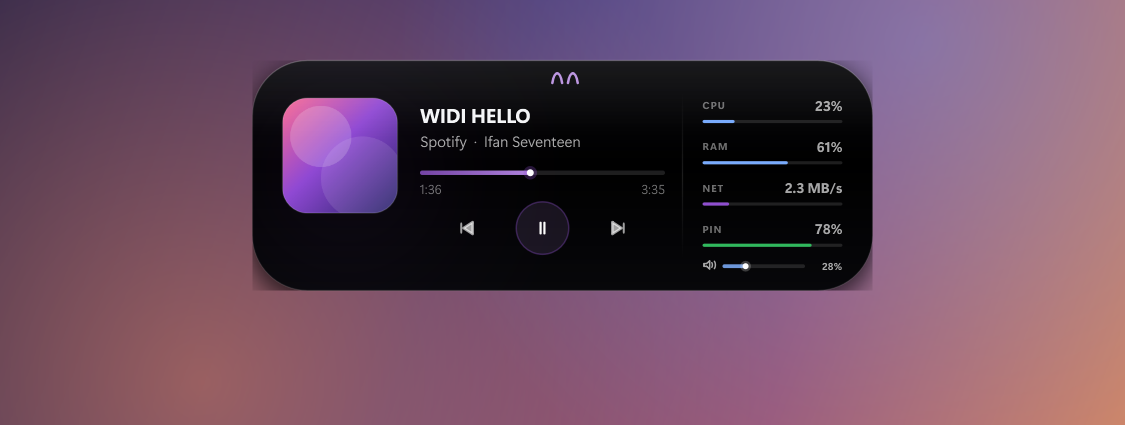
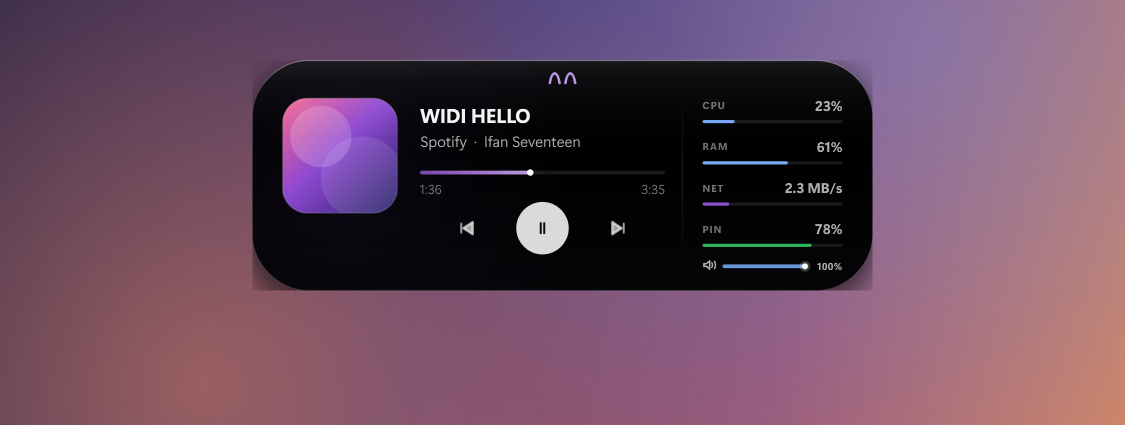
Nâng cấp giao diện kiểu MacBook: góc squircle, nền đen tuyền, viền sáng 2 tầng, camera lens, nút play trắng kiểu Apple Music, bóng mềm hơn

diff --git a/island/window.py b/island/window.py
@@ -53,7 +53,7 @@ from .audio import Volume
 from .debug import dbg
 from .eyes import Eyes
 from .monitor import fmt_rate
-from .theme import C, PAD, alpha, clamp, f, fm, lerp, mix, rgba
+from .theme import C, PAD, alpha, clamp, f, fm, lerp, mix, pill_path, rgba
 
 IDLE = "idle"
 COMPACT = "compact"
@@ -704,39 +704,44 @@ class Island(QWidget):
             QRectF(PAD, PAD, sw, sh),
         )
 
-        path = QPainterPath()
-        path.addRoundedRect(pill, self._radius, self._radius)
+        path = pill_path(pill, self._radius)
+        big = self._state in (EXPANDED, NOTIF, SHELF)
+
+        # Nền: đen tuyền kiểu OLED, chỉ hơi sáng sát mép trên để tạo khối.
         grad = QLinearGradient(0, pill.top(), 0, pill.bottom())
         grad.setColorAt(0.0, C.bg_top)
-        grad.setColorAt(0.45, C.bg_mid)
+        grad.setColorAt(0.38, C.bg_mid)
         grad.setColorAt(1.0, C.bg_bottom)
         cp.fillPath(path, QBrush(grad))
 
         cp.save()
         cp.setClipPath(path)
-        big = self._state in (EXPANDED, NOTIF, SHELF)
         if self._media.get("has"):
             glow = QRadialGradient(
                 QPointF(pill.left() + (76 if big else 42), pill.center().y()),
                 180 if big else 110,
             )
-            glow.setColorAt(0.0, alpha(self._accent, 19 if big else 13))
+            glow.setColorAt(0.0, alpha(self._accent, 20 if big else 13))
             glow.setColorAt(0.55, alpha(self._accent, 5 if big else 3))
             glow.setColorAt(1.0, alpha(self._accent, 0))
             cp.fillRect(pill, glow)
 
-        hl_h = min(58.0, pill.height() * 0.62)
+        # Sheen mảnh sát đỉnh: ánh sáng hắt từ màn hình, rất nhẹ để không bợt.
+        hl_h = min(46.0, pill.height() * 0.52)
         hl = QLinearGradient(0, pill.top(), 0, pill.top() + hl_h)
-        hl.setColorAt(0.0, QColor(255, 255, 255, 18))
+        hl.setColorAt(0.0, QColor(255, 255, 255, 15))
+        hl.setColorAt(0.38, QColor(255, 255, 255, 4))
         hl.setColorAt(1.0, QColor(255, 255, 255, 0))
         cp.fillRect(QRectF(pill.left(), pill.top(), pill.width(), hl_h), hl)
         cp.restore()
 
+        # Viền 2 lớp: vệt sáng trên đậm rồi tắt nhanh + hairline phía trong,
+        # cho cảm giác cạnh máy được vát chứ không phải hình dán phẳng.
         rim = QLinearGradient(0, pill.top(), 0, pill.bottom())
-        rim.setColorAt(0.0, rgba(255, 255, 255, 62))
-        rim.setColorAt(0.30, rgba(255, 255, 255, 18))
-        rim.setColorAt(0.70, rgba(255, 255, 255, 13))
-        rim.setColorAt(1.0, rgba(255, 255, 255, 30))
+        rim.setColorAt(0.0, rgba(255, 255, 255, 86))
+        rim.setColorAt(0.14, rgba(255, 255, 255, 26))
+        rim.setColorAt(0.62, rgba(255, 255, 255, 11))
+        rim.setColorAt(1.0, rgba(255, 255, 255, 26))
         cp.setBrush(Qt.BrushStyle.NoBrush)
         cp.setPen(QPen(QBrush(rim), 1.0))
         cp.drawPath(path)
@@ -756,8 +761,7 @@ class Island(QWidget):
         pill = self._pill_rect()
         p.drawPixmap(QPointF(0.0, 0.0), self._chrome())
 
-        path = QPainterPath()
-        path.addRoundedRect(pill, self._radius, self._radius)
+        path = pill_path(pill, self._radius)
 
         p.save()
         p.setClipPath(path)
@@ -806,17 +810,18 @@ class Island(QWidget):
         sp = QPainter(src)
         sp.setRenderHint(QPainter.RenderHint.Antialiasing)
         sp.setPen(Qt.PenStyle.NoPen)
-        sp.setBrush(QColor(0, 0, 0, 120))
-        sp.drawRoundedRect(QRectF(PAD - 2, PAD + 8, w + 4, h + 4), r + 2, r + 2)
-        sp.setBrush(QColor(0, 0, 0, 140))
-        sp.drawRoundedRect(QRectF(PAD, PAD + 3, w, h), r, r)
+        # Hai lớp: quầng rộng rất nhẹ + lõi sát viền, tổng thể mềm như macOS.
+        sp.setBrush(QColor(0, 0, 0, 92))
+        sp.drawRoundedRect(QRectF(PAD - 3, PAD + 10, w + 6, h + 6), r + 3, r + 3)
+        sp.setBrush(QColor(0, 0, 0, 128))
+        sp.drawRoundedRect(QRectF(PAD, PAD + 4, w, h), r, r)
         sp.end()
 
         scene = QGraphicsScene()
         scene.setSceneRect(0, 0, pw, ph)
         item = QGraphicsPixmapItem(src)
         blur = QGraphicsBlurEffect()
-        blur.setBlurRadius(17)
+        blur.setBlurRadius(19)
         item.setGraphicsEffect(blur)
         scene.addItem(item)
 
@@ -851,6 +856,31 @@ class Island(QWidget):
     def _eye_color(self) -> QColor:
         return C.eye(self._accent)
 
+    def _paint_camera(self, p: QPainter, cx: float, cy: float, scale: float = 1.0):
+        """Ống kính camera nhỏ trong notch — chi tiết đặc trưng của MacBook."""
+        rr = 4.6 * scale
+        p.setPen(Qt.PenStyle.NoPen)
+        p.setBrush(rgba(255, 255, 255, 16))
+        p.drawEllipse(QPointF(cx, cy), rr + 0.7, rr + 0.7)
+
+        lens = QRadialGradient(QPointF(cx - rr * 0.34, cy - rr * 0.36), rr * 1.75)
+        lens.setColorAt(0.0, QColor(32, 43, 58))
+        lens.setColorAt(0.52, QColor(11, 15, 21))
+        lens.setColorAt(1.0, QColor(3, 5, 8))
+        p.setBrush(QBrush(lens))
+        p.drawEllipse(QPointF(cx, cy), rr, rr)
+
+        # lớp phủ thuỷ tinh hơi ánh màu nhấn
+        p.setBrush(Qt.BrushStyle.NoBrush)
+        p.setPen(QPen(alpha(self._accent, 48), 0.9))
+        p.drawEllipse(QPointF(cx, cy), rr - 0.4, rr - 0.4)
+
+        p.setPen(Qt.PenStyle.NoPen)
+        p.setBrush(rgba(255, 255, 255, 124))
+        p.drawEllipse(QPointF(cx - rr * 0.33, cy - rr * 0.36), 1.05 * scale, 1.05 * scale)
+        p.setBrush(rgba(255, 255, 255, 38))
+        p.drawEllipse(QPointF(cx + rr * 0.30, cy + rr * 0.34), 0.72 * scale, 0.72 * scale)
+
     def _paint_idle(self, p: QPainter, r: QRectF):
         clock = time.strftime("%H:%M")
         date = _vn_short()
@@ -875,6 +905,9 @@ class Island(QWidget):
         p.setFont(date_font)
         p.setPen(C.mute)
         p.drawText(QRectF(bx, y0 + 19, block_w + 2, 14), LC, date)
+
+        # ống kính ở nửa phải, đúng vị trí camera trên notch MacBook
+        self._paint_camera(p, r.right() - 28.0, r.center().y())
 
     def _paint_compact(self, p: QPainter, r: QRectF):
         art = QRectF(r.left() + 7, r.top() + 7, 28, 28)
@@ -1052,23 +1085,22 @@ class Island(QWidget):
         frac = clamp(pos / dur, 0.0, 1.0) if dur > 0 else 0.0
 
         track_y = top + 88
-        th = 3.5
+        th = 3.0
         p.setPen(Qt.PenStyle.NoPen)
         p.setBrush(C.track)
         p.drawRoundedRect(QRectF(x, track_y, w, th), th / 2, th / 2)
         if frac > 0.004:
             fill_w = max(th, w * frac)
             fg = QLinearGradient(x, 0, x + fill_w, 0)
-            fg.setColorAt(0.0, alpha(self._accent, 190))
-            fg.setColorAt(1.0, mix(self._accent, QColor(255, 255, 255), 0.30))
+            fg.setColorAt(0.0, alpha(self._accent, 205))
+            fg.setColorAt(1.0, mix(self._accent, QColor(255, 255, 255), 0.45))
             p.setBrush(QBrush(fg))
             p.drawRoundedRect(QRectF(x, track_y, fill_w, th), th / 2, th / 2)
 
-        knob_x = x + w * frac
-        p.setBrush(alpha(self._accent, 70))
-        p.drawEllipse(QPointF(knob_x, track_y + th / 2), 5.4, 5.4)
-        p.setBrush(QColor(255, 255, 255))
-        p.drawEllipse(QPointF(knob_x, track_y + th / 2), 2.8, 2.8)
+            # chấm nhỏ ở đầu phát; ẩn khi chưa phát để không có chấm lạc ở mép trái
+            knob_x = x + w * frac
+            p.setBrush(QColor(255, 255, 255))
+            p.drawEllipse(QPointF(knob_x, track_y + th / 2), 2.6, 2.6)
 
         p.setFont(f(9.5, QFont.Weight.Medium, 0.2))
         p.setPen(C.mute)
@@ -1086,18 +1118,17 @@ class Island(QWidget):
         playing = bool(self._media.get("playing"))
         hot_play = self._hover_ctrl == "play"
         p.setPen(Qt.PenStyle.NoPen)
-        p.setBrush(alpha(QColor(255, 255, 255), 26 if hot_play else 13))
-        p.drawEllipse(QPointF(cx, cy), 21, 21)
-        p.setBrush(alpha(self._accent, 34 if hot_play else 18))
-        p.drawEllipse(QPointF(cx, cy), 21, 21)
-        p.setBrush(Qt.BrushStyle.NoBrush)
-        p.setPen(QPen(alpha(self._accent, 150 if hot_play else 90), 1.2))
+        if hot_play:
+            p.setBrush(rgba(255, 255, 255, 34))
+            p.drawEllipse(QPointF(cx, cy), 25, 25)
+        # nút trắng đặc + glyph đen, đúng kiểu Apple Music
+        p.setBrush(QColor(255, 255, 255, 236 if hot_play else 222))
         p.drawEllipse(QPointF(cx, cy), 21, 21)
 
         if playing:
-            icons.pause(p, QRectF(cx - 5.5, cy - 7.5, 11, 15), QColor(255, 255, 255))
+            icons.pause(p, QRectF(cx - 5.0, cy - 7.0, 10.0, 14.0), QColor(9, 9, 12))
         else:
-            icons.play(p, QRectF(cx - 4.5, cy - 8, 13, 16), QColor(255, 255, 255))
+            icons.play(p, QRectF(cx - 4.0, cy - 7.6, 12.0, 15.0), QColor(9, 9, 12))
 
         for name, ix, icon_fn in (
             ("prev", cx - 78 + 17, icons.prev),

diff --git a/island/theme.py b/island/theme.py
@@ -2,7 +2,14 @@
 
 from __future__ import annotations
 
-from PySide6.QtGui import QColor, QFont, QFontDatabase, QFontMetricsF
+from PySide6.QtCore import QRectF
+from PySide6.QtGui import (
+    QColor,
+    QFont,
+    QFontDatabase,
+    QFontMetricsF,
+    QPainterPath,
+)
 
 # Vùng đệm quanh viên đảo để vẽ bóng đổ
 PAD = 22
@@ -33,19 +40,19 @@ def mix(a: QColor, b: QColor, t: float) -> QColor:
 class C:
     """Bảng màu. Nền đen tuyền kiểu OLED, viền sáng mảnh, chữ trắng ngà."""
 
-    bg_top = QColor(9, 9, 12)
+    bg_top = QColor(10, 10, 14)
     bg_mid = QColor(0, 0, 0)
-    bg_bottom = QColor(7, 7, 10)
+    bg_bottom = QColor(5, 5, 8)
 
     stroke = rgba(255, 255, 255, 30)
     stroke_soft = rgba(255, 255, 255, 14)
 
-    text = QColor(247, 248, 250)
-    dim = rgba(255, 255, 255, 168)
-    mute = rgba(255, 255, 255, 110)
-    faint = rgba(255, 255, 255, 52)
-    track = rgba(255, 255, 255, 30)
-    hair = rgba(255, 255, 255, 20)
+    text = QColor(248, 249, 251)
+    dim = rgba(255, 255, 255, 176)
+    mute = rgba(255, 255, 255, 116)
+    faint = rgba(255, 255, 255, 54)
+    track = rgba(255, 255, 255, 26)
+    hair = rgba(255, 255, 255, 18)
     chip = rgba(255, 255, 255, 12)
 
     accent = QColor(122, 173, 255)
@@ -110,3 +117,33 @@ def clamp(v: float, lo: float, hi: float) -> float:
 
 def lerp(a: float, b: float, t: float) -> float:
     return a + (b - a) * t
+
+
+def pill_path(rect: QRectF, radius: float, k: float = 0.52) -> QPainterPath:
+    """Đường bao góc cong liên tục (squircle) thay cho addRoundedRect.
+
+    Dùng cubic bezier với hệ số k thay vì cung tròn (k = 0.5523). Góc vì thế
+    "đầy" và mềm hơn — đúng cảm giác notch/Dynamic Island trên macOS, nhất là
+    khi bán kính bằng nửa chiều cao (dạng viên thuốc).
+    """
+    r = max(0.0, min(radius, min(rect.width(), rect.height()) / 2.0))
+    path = QPainterPath()
+    if r <= 0.05:
+        path.addRect(rect)
+        return path
+
+    x0, y0 = rect.left(), rect.top()
+    x1, y1 = rect.right(), rect.bottom()
+    c = r * clamp(k, 0.30, 0.56)
+
+    path.moveTo(x0 + r, y0)
+    path.lineTo(x1 - r, y0)
+    path.cubicTo(x1 - r + c, y0, x1, y0 + r - c, x1, y0 + r)
+    path.lineTo(x1, y1 - r)
+    path.cubicTo(x1, y1 - r + c, x1 - r + c, y1, x1 - r, y1)
+    path.lineTo(x0 + r, y1)
+    path.cubicTo(x0 + r - c, y1, x0, y1 - r + c, x0, y1 - r)
+    path.lineTo(x0, y0 + r)
+    path.cubicTo(x0, y0 + r - c, x0 + r - c, y0, x0 + r, y0)
+    path.closeSubpath()
+    return path
